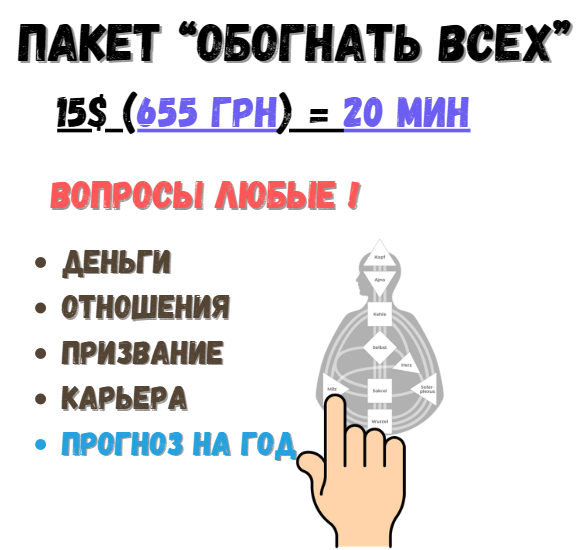
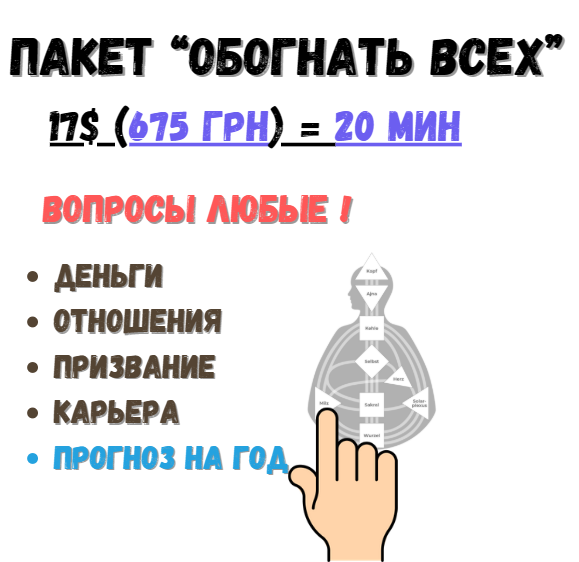
77

Changed region(s): [[0.0311, 0.4327, 0.7785, 1.0], [0.0, 0.0309, 0.9965, 0.2782], [0.0623, 0.3091, 0.6228, 0.4018]]

diff --git a/bot.py b/bot.py
@@ -1,149 +1,115 @@
 import os
-import asyncio
 import logging
 from dotenv import load_dotenv
-
 from telegram import (
-    Update, ReplyKeyboardMarkup, InlineKeyboardMarkup, InlineKeyboardButton
+    Update,
+    InlineKeyboardButton,
+    InlineKeyboardMarkup,
+    ReplyKeyboardRemove,
 )
 from telegram.ext import (
-    Application, CommandHandler, MessageHandler, CallbackQueryHandler,
-    ContextTypes, filters, JobQueue
+    Application,
+    CommandHandler,
+    CallbackQueryHandler,
+    MessageHandler,
+    ContextTypes,
+    filters,
 )
-from gen_keys import get_gate_description
 
-# Загрузка токена
-load_dotenv()
-TOKEN = os.getenv("BOT_TOKEN")
+# Логирование
 logging.basicConfig(filename='bot.log', level=logging.INFO)
 
-ALLOWED_IDS = [446393818]
+# Загрузка .env
+load_dotenv()
+TOKEN = os.getenv("BOT_TOKEN")
+ALLOWED_IDS = [446393818]  # Твой Telegram ID
 
-keyboard = [
-    ["🆓 Бесплатный разбор"],
-    ["💸 Платный разбор от 15$"],
-    ["👑 Пакет VIP от 60$"],
-    ["📜 Обо мне / Отзывы"]
-]
-menu_markup = ReplyKeyboardMarkup(keyboard, resize_keyboard=True)
+# Клавиатура
+MAIN_KEYBOARD = InlineKeyboardMarkup([
+    [InlineKeyboardButton("🆓 Бесплатный разбор", callback_data="free")],
+    [InlineKeyboardButton("🐝 Платный разбор от 17$", callback_data="paid")],
+    [InlineKeyboardButton("👑 Пакет VIP от 60$", callback_data="vip")],
+    [InlineKeyboardButton("📜 Обо мне / Отзывы", callback_data="about")]
+])
 
-def get_form_buttons():
-    return InlineKeyboardMarkup([
-        [InlineKeyboardButton("📝 ЖМИ СЮДА — заполни ФОРМУ", url="https://freehumandesignchart.com/")],
-        [InlineKeyboardButton("🔄 Обновить страницу", callback_data="refresh")]
-    ])
+UPDATE_BUTTON = InlineKeyboardMarkup([
+    [InlineKeyboardButton("🔄 Обновить страницу", callback_data="refresh")]
+])
 
-def get_contact_button():
-    return InlineKeyboardMarkup([
-        [InlineKeyboardButton("📲 Написать в Telegram", url="https://t.me/Vikram_2027")],
-        [InlineKeyboardButton("🔄 Обновить страницу", callback_data="refresh")]
-    ])
+# Очистка чата
+async def clear_chat_history(context: ContextTypes.DEFAULT_TYPE):
+    for chat_id in ALLOWED_IDS:
+        try:
+            await context.bot.send_message(chat_id, "🧹 Автоочистка истории чата...")
+        except:
+            pass
 
+# Обработка /start
 async def start(update: Update, context: ContextTypes.DEFAULT_TYPE):
-    chat_id = update.effective_chat.id
-    if update.effective_user.id not in ALLOWED_IDS:
+    chat_id = update.effective_user.id
+    if chat_id not in ALLOWED_IDS:
         return
+
     logging.info(f"User {chat_id} вызвал /start")
 
     if os.path.exists("s1.webp"):
         with open("s1.webp", "rb") as sticker:
             await context.bot.send_sticker(chat_id, sticker)
 
-    if os.path.exists("intro-0.ogg"):
-        with open("intro-0.ogg", "rb") as audio:
-            await context.bot.send_audio(chat_id, audio)
+    await context.bot.send_voice(chat_id, voice=open("intro-0.ogg", "rb"))
+    await context.bot.send_message(chat_id, "👇 Ниже вы можете выбрать действие:", reply_markup=MAIN_KEYBOARD)
 
-    await context.bot.send_message(chat_id, "👇 Ниже вы можете выбрать действие:", reply_markup=menu_markup)
-
-async def handle_callback(update: Update, context: ContextTypes.DEFAULT_TYPE):
-    if update.effective_user.id not in ALLOWED_IDS:
-        return
+# Обработка нажатий
+async def button(update: Update, context: ContextTypes.DEFAULT_TYPE):
     query = update.callback_query
     await query.answer()
 
-    if query.data == "decode_self":
-        await query.message.reply_text("Пока что функция в разработке.")
-    elif query.data == "refresh":
-        await context.bot.send_message(update.effective_chat.id, "🔄 Обновление...")
-        await start(update, context)
-
-async def handle_message(update: Update, context: ContextTypes.DEFAULT_TYPE):
-    chat_id = update.effective_chat.id
-    if update.effective_user.id not in ALLOWED_IDS:
+    if query.from_user.id not in ALLOWED_IDS:
         return
 
-    text = update.message.text.lower()
+    choice = query.data
+    if choice == "free":
+        await query.message.reply_audio(audio=open("primer_razbora.ogg", "rb"))
+        await query.message.reply_text("✏ ЖМИ СЮДА — заполни ФОРМУ", reply_markup=UPDATE_BUTTON)
+    elif choice == "paid":
+        await query.message.reply_document(document=open("primer_prognoz2.pdf", "rb"))
+        await query.message.reply_text("🔄 Обновить страницу", reply_markup=UPDATE_BUTTON)
+    elif choice == "vip":
+        await query.message.reply_document(document=open("Prognoz_Love_god.pdf", "rb"))
+        await query.message.reply_text("🔄 Обновить страницу", reply_markup=UPDATE_BUTTON)
+    elif choice == "about":
+        await query.message.reply_document(document=open("Razbor_na_God.pdf", "rb"))
+        await query.message.reply_text("🔄 Обновить страницу", reply_markup=UPDATE_BUTTON)
+    elif choice == "refresh":
+        await start(update, context)
+
+# Обработка сообщений
+async def message_handler(update: Update, context: ContextTypes.DEFAULT_TYPE):
+    chat_id = update.effective_user.id
+    if chat_id not in ALLOWED_IDS:
+        return
+
     if update.message.text.startswith("/"):
         return
 
-    if "speeeedvpnbot" in text or "http://" in text:
+    text = update.message.text.lower()
+    if "speeeedvpnbot" in text or "http://" in text or "https://" in text:
         await context.bot.send_message(chat_id, "⚠ Обнаружена подозрительная активность. Завершаю.")
         return
 
-    if "бесплатный" in text:
-        await update.message.reply_text("Вы выбрали бесплатный разбор.")
-        for fname in ["pic1.png", "pic2.png", "pic3.png"]:
-            if os.path.exists(fname):
-                with open(fname, "rb") as img:
-                    await context.bot.send_photo(chat_id, img)
-                    await asyncio.sleep(0.5)
-        if os.path.exists("x1.ogg"):
-            with open("x1.ogg", "rb") as audio:
-                await context.bot.send_audio(chat_id, audio)
+    await context.bot.send_message(chat_id, "🔁 Введите команду или нажмите кнопку.")
 
-        await update.message.reply_text("👇 Ниже вы можете выбрать действие:", reply_markup=get_form_buttons())
+# Инициализация job_queue
+async def post_init(app: Application):
+    app.job_queue.run_repeating(clear_chat_history, interval=900, first=10)
 
-    elif "платный" in text:
-        await update.message.reply_text("💸 Платный разбор. Информация ниже.")
-        for fname in ["pic4.png", "pic4-1.png", "pic5.png"]:
-            if os.path.exists(fname):
-                with open(fname, "rb") as img:
-                    await context.bot.send_photo(chat_id, img)
-                    await asyncio.sleep(0.5)
-        if os.path.exists("x2.ogg"):
-            with open("x2.ogg", "rb") as audio:
-                await context.bot.send_audio(chat_id, audio)
-
-        await update.message.reply_text("👇", reply_markup=get_contact_button())
-
-    elif "vip" in text:
-        await update.message.reply_text("👑 Пакет VIP: смотрите материалы ниже.")
-        for fname in ["pic6.png", "pic5.png", "Voprosi.png"]:
-            if os.path.exists(fname):
-                with open(fname, "rb") as img:
-                    await context.bot.send_photo(chat_id, img)
-                    await asyncio.sleep(0.5)
-        if os.path.exists("x3.ogg"):
-            with open("x3.ogg", "rb") as audio:
-                await context.bot.send_audio(chat_id, audio)
-
-        await update.message.reply_text("👇", reply_markup=get_contact_button())
-
-    elif "обо мне" in text or "отзывы" in text:
-        await update.message.reply_text("Здесь вы можете прочитать про отзывы и систему — мой Instagram:\nhttps://www.instagram.com/vikram_hd_2027\nНиже — примеры реальных сессий:")
-        for fname in ["Razbor_na_God.pdf", "primer_prognoz2.pdf"]:
-            if os.path.exists(fname):
-                with open(fname, "rb") as doc:
-                    await context.bot.send_document(chat_id, doc)
-        await update.message.reply_text("👇", reply_markup=get_contact_button())
-
-async def clear_chat_history(context: ContextTypes.DEFAULT_TYPE):
-    for chat_id in ALLOWED_IDS:
-        try:
-            await context.bot.send_message(chat_id, "🧹 Автоочистка истории чата...")
-        except Exception as e:
-            logging.warning(f"Ошибка при автоочистке: {e}")
-
-async def error_handler(update: object, context: ContextTypes.DEFAULT_TYPE):
-    logging.error(f"Произошла ошибка: {context.error}")
-
+# Основной запуск
 def main():
-    app = Application.builder().token(TOKEN).post_init(lambda app: app.job_queue.run_repeating(clear_chat_history, interval=900, first=10)).build()
+    app = Application.builder().token(TOKEN).post_init(post_init).build()
 
     app.add_handler(CommandHandler("start", start))
-    app.add_handler(CallbackQueryHandler(handle_callback))
-    app.add_handler(MessageHandler(filters.TEXT & ~filters.COMMAND, handle_message))
-    app.add_error_handler(error_handler)
+    app.add_handler(CallbackQueryHandler(button))
+    app.add_handler(MessageHandler(filters.TEXT & ~filters.COMMAND, message_handler))
 
     app.run_polling()
 
